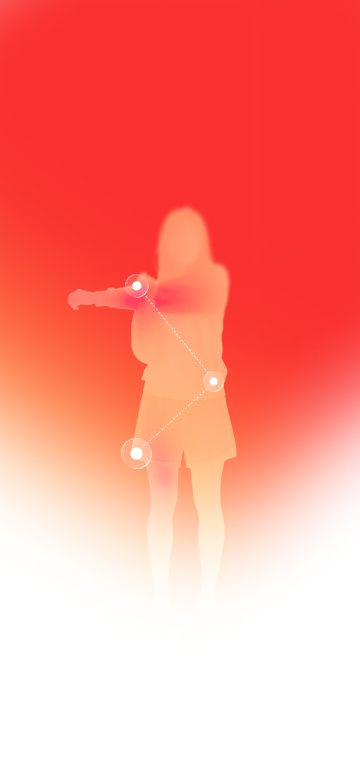
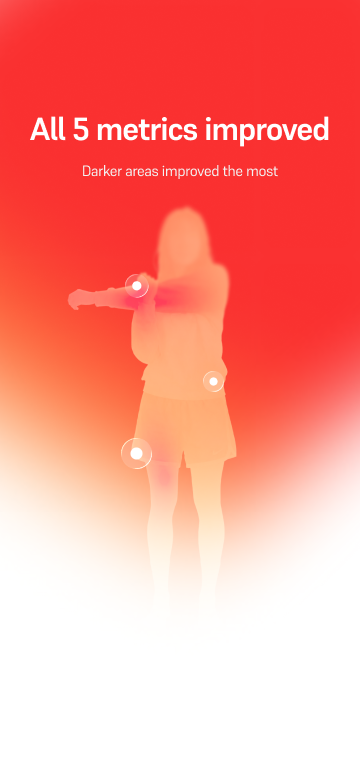
Library 카드 케밥을 CSS 점 3개로(거대 원 버그 수정)+타이틀 flex 줄바꿈. Agility/Endurance 카드: 좌측정렬·높이88·패딩12/16·간격4·상단행과 8. Progress 배경을 점선없는 이미지로 교체+오버레이 점/타이틀 제거(중복 방지, 라인만 애니메이션). 인앱브라우저는 자동전환 대신 '크롬에서 확인하기' 버튼 노출

Changed region(s): [[0.0917, 0.1231, 0.9167, 0.1846], [0.2444, 0.2154, 0.7639, 0.2462]]

diff --git a/assets/openext.js b/assets/openext.js
@@ -1,25 +1,35 @@
 // When opened inside an in-app webview (KakaoTalk, Line, Instagram, Facebook…),
-// the host chrome hides the address bar and can break gestures/fixed layout.
-// Kick the page out to the real browser (Chrome/Safari) so it opens normally.
+// the host chrome hides the address bar and can distort the fixed layout.
+// Instead of auto-redirecting, show a button that opens the real browser on tap,
+// so nothing jumps unexpectedly.
 (function () {
   var ua = navigator.userAgent.toLowerCase();
-  var url = location.href;
 
-  // KakaoTalk (iOS + Android) — official external-open scheme
-  if (ua.indexOf('kakaotalk') > -1) {
-    location.href = 'kakaotalk://web/openExternal?url=' + encodeURIComponent(url);
-    return;
+  function target() {
+    if (ua.indexOf('kakaotalk') > -1)
+      return function () { location.href = 'kakaotalk://web/openExternal?url=' + encodeURIComponent(location.href); };
+    if (ua.indexOf('line/') > -1)
+      return function () { location.href = location.href + (location.href.indexOf('?') > -1 ? '&' : '?') + 'openExternalBrowser=1'; };
+    if (/instagram|fbav|fban|fb_iab|naver|daumapps|; wv\)/.test(ua) && ua.indexOf('android') > -1)
+      return function () { location.href = 'intent://' + location.href.replace(/^https?:\/\//, '') + '#Intent;scheme=https;package=com.android.chrome;end'; };
+    return null;
   }
-  // Line — append the documented flag
-  if (ua.indexOf('line/') > -1) {
-    location.href = url + (url.indexOf('?') > -1 ? '&' : '?') + 'openExternalBrowser=1';
-    return;
+
+  var open = target();
+  if (!open) return;
+
+  function build() {
+    if (document.getElementById('open-ext-btn')) return;
+    var bar = document.createElement('div');
+    bar.style.cssText = 'position:fixed;left:0;right:0;bottom:0;z-index:99999;display:flex;justify-content:center;padding:0 16px 24px;pointer-events:none;';
+    var btn = document.createElement('button');
+    btn.id = 'open-ext-btn';
+    btn.textContent = '정확한 비율은 크롬에서 확인하기';
+    btn.style.cssText = 'pointer-events:auto;border:none;border-radius:999px;padding:14px 22px;background:#FA3030;color:#fff;font-family:sans-serif;font-size:15px;font-weight:700;letter-spacing:-0.3px;box-shadow:0 8px 24px rgba(0,0,0,.28);';
+    btn.addEventListener('click', open);
+    bar.appendChild(btn);
+    document.body.appendChild(bar);
   }
-  // Instagram / Facebook / Naver / Daum in-app on Android → hand off to Chrome via intent
-  var inApp = /instagram|fbav|fban|fb_iab|naver|daumapps|; wv\)/.test(ua);
-  if (inApp && ua.indexOf('android') > -1) {
-    location.href = 'intent://' + url.replace(/^https?:\/\//, '') +
-      '#Intent;scheme=https;package=com.android.chrome;end';
-  }
-  // iOS Instagram/FB webviews have no reliable escape scheme — left as-is.
+  if (document.body) build();
+  else document.addEventListener('DOMContentLoaded', build);
 })();

diff --git a/styles/stats.css b/styles/stats.css
@@ -90,10 +90,11 @@
 .sec-title { margin: 0 0 12px; padding: 0 20px; font-family: var(--font-supreme-bold); font-size: 18px; letter-spacing: -0.54px; color: var(--color-black); display: flex; align-items: center; justify-content: space-between; }
 .sec-title img { width: 26px; height: 26px; }
 
-/* Progress Overview — all 5 cards share one centered component (same fonts/sizes).
-   Numbers are static (no count-up motion). */
+/* Progress Overview. Top row: 3 cards CENTER-aligned, 144px. Bottom row: 2 cards
+   LEFT-aligned, 88px (pad 12 top / 16 bottom), gap 4 between, 8 below the top row.
+   Numbers static (no count-up). */
 .ov-row3, .ov-row2 { display: flex; gap: 4px; padding: 0 12px; }
-.ov-row3 { margin-bottom: 4px; }
+.ov-row2 { margin-top: 8px; }
 .ov-card {
   flex: 1;
   height: 144px;
@@ -107,10 +108,23 @@
   justify-content: space-between;
   text-align: center;
 }
+.ov-wide {
+  flex: 1;
+  height: 88px;
+  box-sizing: border-box;
+  background: var(--color-neutral-100);
+  border-radius: 16px;
+  padding: 12px 16px 16px;
+  display: flex;
+  align-items: stretch;
+  justify-content: space-between;
+}
+.ov-wide .ov-txt { display: flex; flex-direction: column; }
 /* Caption/Bold title + Caption/Regular red pts (both 13px, 120%) */
-.ov-card .ov-label { font-family: var(--font-supreme-bold); font-size: 13px; line-height: 1.2; letter-spacing: -0.5px; color: var(--color-black); margin: 0 0 4px; }
-.ov-card .ov-pts { font-family: var(--font-supreme); font-size: 13px; line-height: 1.2; letter-spacing: -0.5px; color: var(--color-red); margin: 0; }
+.ov-label { font-family: var(--font-supreme-bold); font-size: 13px; line-height: 1.2; letter-spacing: -0.5px; color: var(--color-black); margin: 0 0 4px; }
+.ov-pts { font-family: var(--font-supreme); font-size: 13px; line-height: 1.2; letter-spacing: -0.5px; color: var(--color-red); margin: 0; }
 .ov-num { font-family: var(--font-offbit); font-weight: 700; font-size: 42px; line-height: 1; color: var(--color-black); }
+.ov-wide .ov-num { font-size: 40px; align-self: flex-end; }
 
 /* Sessions by Pack — 56px below the overview, NO number motion */
 .sessions-pack { margin-top: 56px; }
@@ -193,10 +207,10 @@
 .lib-card.hidden { display: none; }
 .lib-card .lib-top { display: flex; align-items: flex-start; justify-content: space-between; }
 .lib-card .lib-sport { margin: 0; font-family: var(--font-supreme); font-size: 13px; line-height: 1.2; letter-spacing: -0.5px; color: #3B3B3B; }
-.lib-card .lib-kebab { width: 19px; height: 20px; display: flex; align-items: center; justify-content: center; }
-.lib-card .lib-kebab img { width: 15px; height: auto; transform: rotate(90deg); filter: brightness(0) invert(0.7); }
+.lib-card .lib-kebab { display: flex; align-items: center; gap: 3px; height: 20px; }
+.lib-card .lib-kebab i { width: 4px; height: 4px; border-radius: 50%; background: var(--color-neutral-400); }
 .lib-card .lib-body { display: flex; align-items: stretch; justify-content: space-between; gap: 12px; }
-.lib-card .lib-title { margin: 0; align-self: flex-end; font-family: var(--font-supreme-bold); font-size: 20px; line-height: 1.2; letter-spacing: -1px; color: #141A1A; }
+.lib-card .lib-title { flex: 1; min-width: 0; margin: 0; align-self: flex-end; font-family: var(--font-supreme-bold); font-size: 20px; line-height: 1.2; letter-spacing: -1px; color: #141A1A; }
 .lib-card .lib-rate { flex: none; display: flex; flex-direction: column; align-items: flex-end; justify-content: flex-end; gap: 8px; }
 .lib-card .lib-rate .rate-label { margin: 0; font-family: var(--font-supreme); font-size: 12px; line-height: 1.2; letter-spacing: -0.5px; color: #A3A3A3; }
 .lib-card .lib-rate .rate-pct { font-family: var(--font-offbit); font-weight: 700; font-size: 38px; line-height: 1; color: #050A0A; }

diff --git a/progress.html b/progress.html
@@ -20,23 +20,16 @@
       <a class="stat-tab" href="library.html">Library</a>
     </div>
 
-    <div class="stats-title">
-      <p class="st-title">All 5 metrics improved</p>
-      <p class="st-sub">Darker areas improved the most</p>
-    </div>
-
-    <!-- Dots + drawn line overlaying the figure (aligned to node 319:18919) -->
+    <!-- Title + ring dots are baked into the background image; overlay only the
+         animated dashed line so it draws once with no duplication. -->
     <svg class="body-graph" viewBox="0 0 360 560" preserveAspectRatio="none" aria-hidden="true">
       <defs>
         <clipPath id="lineReveal">
-          <path class="reveal-path" d="M137 286 L214 382 L137 454" fill="none" stroke="#000" stroke-width="14" pathLength="100"/>
+          <path class="reveal-path" d="M131 288 L214 388 L131 456" fill="none" stroke="#000" stroke-width="14" pathLength="100"/>
         </clipPath>
       </defs>
-      <path d="M137 286 L214 382 L137 454" fill="none" stroke="#fff" stroke-width="2" stroke-dasharray="3 5" stroke-linecap="round" opacity="1" clip-path="url(#lineReveal)"/>
+      <path d="M131 288 L214 388 L131 456" fill="none" stroke="#fff" stroke-width="2" stroke-dasharray="3 5" stroke-linecap="round" opacity="1" clip-path="url(#lineReveal)"/>
     </svg>
-    <span class="body-dot" style="left:125px; top:274px; width:23.6px; height:23.6px; --dot:.4s;"></span>
-    <span class="body-dot" style="left:203px; top:371px; width:21px; height:21px; --dot:.85s;"></span>
-    <span class="body-dot" style="left:121px; top:438px; width:31px; height:31px; --dot:1.3s;"></span>
 
     <div class="stat s-sm" style="left:96px; top:213px; align-items:flex-end; --d:.05s;"><p>Rhythm</p><div class="num-row"><span class="n">72</span><span class="d">+24</span></div></div>
     <div class="stat s-lg" style="left:47px; top:356px; --d:.15s;"><p>Balance</p><div class="num-row"><span class="n">85</span><span class="d">+25</span></div></div>
@@ -55,8 +48,8 @@
           <div class="ov-card"><div><p class="ov-label">Stability</p><p class="ov-pts">+13 pts</p></div><span class="ov-num">68</span></div>
         </div>
         <div class="ov-row2">
-          <div class="ov-card"><div><p class="ov-label">Agility</p><p class="ov-pts">+19 pts</p></div><span class="ov-num">61</span></div>
-          <div class="ov-card"><div><p class="ov-label">Endurance</p><p class="ov-pts">+22 pts</p></div><span class="ov-num">51</span></div>
+          <div class="ov-wide"><div class="ov-txt"><p class="ov-label">Agility</p><p class="ov-pts">+19 pts</p></div><span class="ov-num">61</span></div>
+          <div class="ov-wide"><div class="ov-txt"><p class="ov-label">Endurance</p><p class="ov-pts">+22 pts</p></div><span class="ov-num">51</span></div>
         </div>
       </section>
 

diff --git a/library.html b/library.html
@@ -30,20 +30,20 @@
     <div class="lib-list" id="libList">
       <div class="lib-group">
         <p class="lib-date">2026.07.07</p>
-        <div class="lib-card" data-sport="Boxing"><div class="lib-top"><p class="lib-sport">Boxing</p><span class="lib-kebab"><img src="assets/icons/kebab-dots.svg" alt=""></span></div><div class="lib-body"><p class="lib-title">Southpaw Switch Drill</p><div class="lib-rate"><p class="rate-label">Match Rate</p><span class="rate-pct">62<span class="u">%</span></span></div></div></div>
-        <div class="lib-card" data-sport="Running"><div class="lib-top"><p class="lib-sport">Running</p><span class="lib-kebab"><img src="assets/icons/kebab-dots.svg" alt=""></span></div><div class="lib-body"><p class="lib-title">Sprinter's First Step</p><div class="lib-rate"><p class="rate-label">Match Rate</p><span class="rate-pct">71<span class="u">%</span></span></div></div></div>
+        <div class="lib-card" data-sport="Boxing"><div class="lib-top"><p class="lib-sport">Boxing</p><span class="lib-kebab"><i></i><i></i><i></i></span></div><div class="lib-body"><p class="lib-title">Southpaw Switch Drill</p><div class="lib-rate"><p class="rate-label">Match Rate</p><span class="rate-pct">62<span class="u">%</span></span></div></div></div>
+        <div class="lib-card" data-sport="Running"><div class="lib-top"><p class="lib-sport">Running</p><span class="lib-kebab"><i></i><i></i><i></i></span></div><div class="lib-body"><p class="lib-title">Sprinter's First Step</p><div class="lib-rate"><p class="rate-label">Match Rate</p><span class="rate-pct">71<span class="u">%</span></span></div></div></div>
       </div>
       <div class="lib-group">
         <p class="lib-date">2026.07.08</p>
-        <div class="lib-card" data-sport="Tennis"><div class="lib-top"><p class="lib-sport">Tennis</p><span class="lib-kebab"><img src="assets/icons/kebab-dots.svg" alt=""></span></div><div class="lib-body"><p class="lib-title">Tennis Forehand Basics</p><div class="lib-rate"><p class="rate-label">Match Rate</p><span class="rate-pct">69<span class="u">%</span></span></div></div></div>
-        <div class="lib-card" data-sport="Basketball"><div class="lib-top"><p class="lib-sport">Basketball</p><span class="lib-kebab"><img src="assets/icons/kebab-dots.svg" alt=""></span></div><div class="lib-body"><p class="lib-title">Curry's Step Back</p><div class="lib-rate"><p class="rate-label">Match Rate</p><span class="rate-pct">55<span class="u">%</span></span></div></div></div>
-        <div class="lib-card" data-sport="Boxing"><div class="lib-top"><p class="lib-sport">Boxing</p><span class="lib-kebab"><img src="assets/icons/kebab-dots.svg" alt=""></span></div><div class="lib-body"><p class="lib-title">Jab-Cross Combo</p><div class="lib-rate"><p class="rate-label">Match Rate</p><span class="rate-pct">60<span class="u">%</span></span></div></div></div>
+        <div class="lib-card" data-sport="Tennis"><div class="lib-top"><p class="lib-sport">Tennis</p><span class="lib-kebab"><i></i><i></i><i></i></span></div><div class="lib-body"><p class="lib-title">Tennis Forehand Basics</p><div class="lib-rate"><p class="rate-label">Match Rate</p><span class="rate-pct">69<span class="u">%</span></span></div></div></div>
+        <div class="lib-card" data-sport="Basketball"><div class="lib-top"><p class="lib-sport">Basketball</p><span class="lib-kebab"><i></i><i></i><i></i></span></div><div class="lib-body"><p class="lib-title">Curry's Step Back</p><div class="lib-rate"><p class="rate-label">Match Rate</p><span class="rate-pct">55<span class="u">%</span></span></div></div></div>
+        <div class="lib-card" data-sport="Boxing"><div class="lib-top"><p class="lib-sport">Boxing</p><span class="lib-kebab"><i></i><i></i><i></i></span></div><div class="lib-body"><p class="lib-title">Jab-Cross Combo</p><div class="lib-rate"><p class="rate-label">Match Rate</p><span class="rate-pct">60<span class="u">%</span></span></div></div></div>
       </div>
       <div class="lib-group">
         <p class="lib-date">2026.07.12</p>
-        <div class="lib-card" data-sport="Running"><div class="lib-top"><p class="lib-sport">Running</p><span class="lib-kebab"><img src="assets/icons/kebab-dots.svg" alt=""></span></div><div class="lib-body"><p class="lib-title">Easy Interval Run</p><div class="lib-rate"><p class="rate-label">Match Rate</p><span class="rate-pct">74<span class="u">%</span></span></div></div></div>
-        <div class="lib-card" data-sport="Basketball"><div class="lib-top"><p class="lib-sport">Basketball</p><span class="lib-kebab"><img src="assets/icons/kebab-dots.svg" alt=""></span></div><div class="lib-body"><p class="lib-title">Crossover Handles</p><div class="lib-rate"><p class="rate-label">Match Rate</p><span class="rate-pct">58<span class="u">%</span></span></div></div></div>
-        <div class="lib-card" data-sport="Tennis"><div class="lib-top"><p class="lib-sport">Tennis</p><span class="lib-kebab"><img src="assets/icons/kebab-dots.svg" alt=""></span></div><div class="lib-body"><p class="lib-title">Backhand Slice Control</p><div class="lib-rate"><p class="rate-label">Match Rate</p><span class="rate-pct">66<span class="u">%</span></span></div></div></div>
+        <div class="lib-card" data-sport="Running"><div class="lib-top"><p class="lib-sport">Running</p><span class="lib-kebab"><i></i><i></i><i></i></span></div><div class="lib-body"><p class="lib-title">Easy Interval Run</p><div class="lib-rate"><p class="rate-label">Match Rate</p><span class="rate-pct">74<span class="u">%</span></span></div></div></div>
+        <div class="lib-card" data-sport="Basketball"><div class="lib-top"><p class="lib-sport">Basketball</p><span class="lib-kebab"><i></i><i></i><i></i></span></div><div class="lib-body"><p class="lib-title">Crossover Handles</p><div class="lib-rate"><p class="rate-label">Match Rate</p><span class="rate-pct">58<span class="u">%</span></span></div></div></div>
+        <div class="lib-card" data-sport="Tennis"><div class="lib-top"><p class="lib-sport">Tennis</p><span class="lib-kebab"><i></i><i></i><i></i></span></div><div class="lib-body"><p class="lib-title">Backhand Slice Control</p><div class="lib-rate"><p class="rate-label">Match Rate</p><span class="rate-pct">66<span class="u">%</span></span></div></div></div>
       </div>
     </div>
   </div>